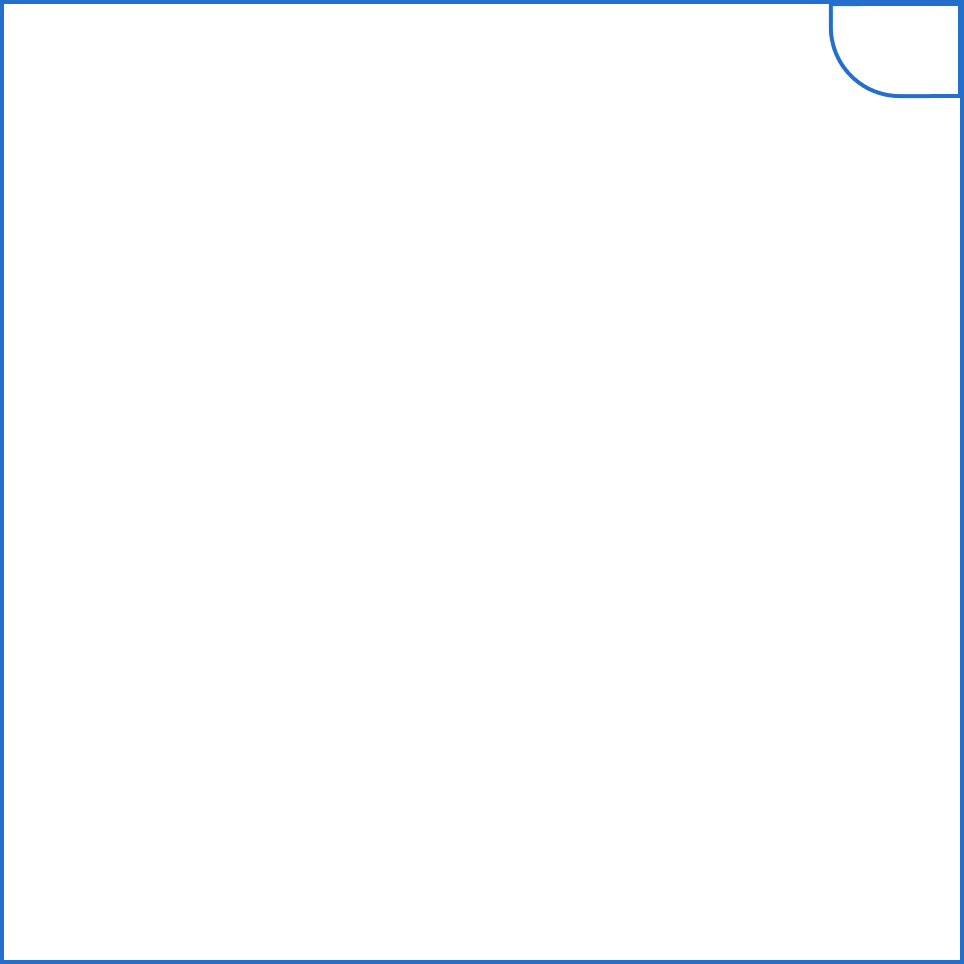
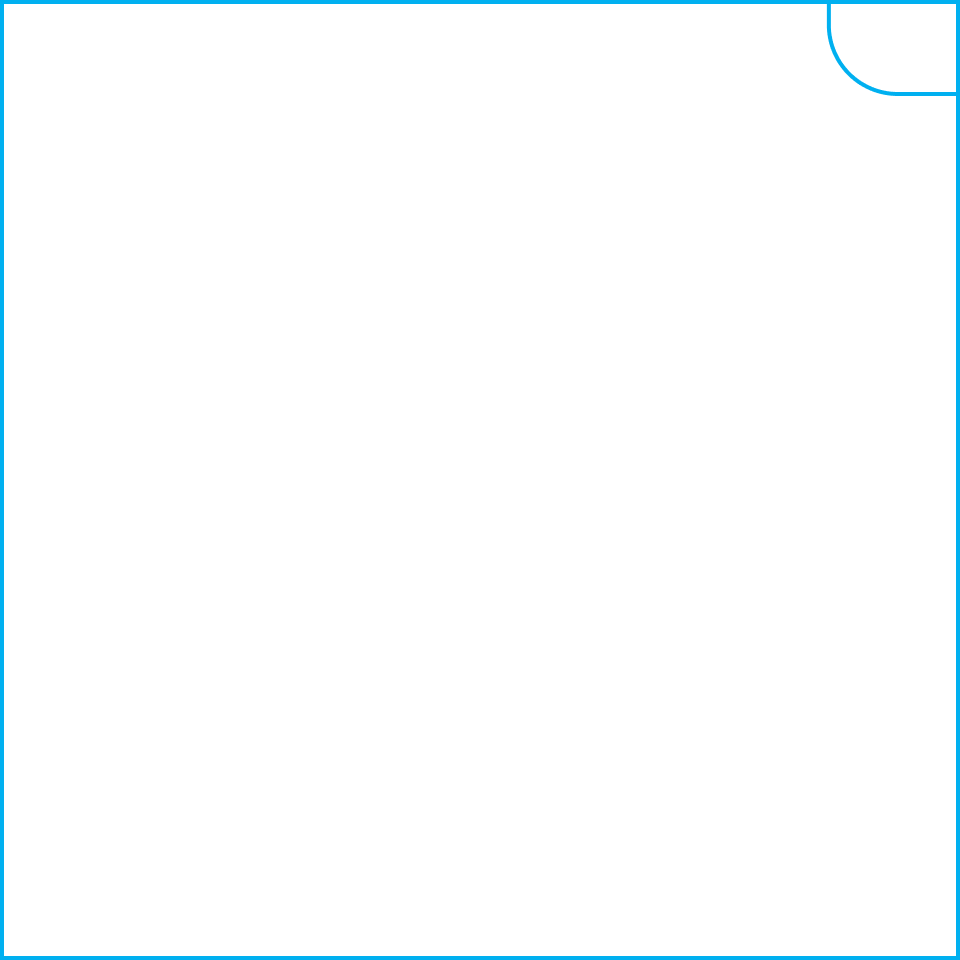
add middle line, chane edit blur bg, change blue border, change shift key size, fix controller loop bug that checks handle_window_close when not tracking

Changed region(s): [[0.0, 0.0, 1.0, 1.0], [0.875, 0.0625, 0.9062, 0.0938]]

diff --git a/confir/src/App.js b/confir/src/App.js
@@ -509,18 +509,19 @@ function App() {
 
   const leftSaveRefs = useRef({}); // Object to store refs by group for left side
   const rightSaveRefs = useRef({}); // Object to store refs by group for right side
-  const clearFlag = useRef(0)
+  const clearFlagl = useRef(0)
+  const clearFlagr = useRef(0)
   const setLeftTmp = (template) => { 
     if(!leftImageMetadata) {
       setLeftImageMetadata(template)
-      clearFlag.current = 1
+      clearFlagl.current = 1
     }
     else Object.values(leftSaveRefs.current).forEach(ref => ref?.setTmp?.(template));
   }
   const setRightTmp = (template) => {
     if(!rightImageMetadata) {
       setRightImageMetadata(template)
-      clearFlag.current = 1
+      clearFlagr.current = 1
     }
     else Object.values(rightSaveRefs.current).forEach(ref => ref?.setTmp?.(template));
   }
@@ -589,7 +590,8 @@ function App() {
       Object.values(rightSaveRefs.current).forEach(ref => ref?.updateSavedMetadata?.());
       if (leftImage!==getInstruction(stage,'AP')) setLeftCheckMark(1)
       if (rightImage!==getInstruction(stage,'OB')) setRightCheckMark(1)
-      clearFlag.current = 0
+      clearFlagl.current = 0
+      clearFlagr.current = 0
       setEditing(false);
     } catch (error) {
       console.error('Error saving landmarks:', error);
@@ -610,8 +612,10 @@ function App() {
       });
       Object.values(leftSaveRefs.current).forEach(ref => ref?.resetToLastSaved?.());
       Object.values(rightSaveRefs.current).forEach(ref => ref?.resetToLastSaved?.());
-      if(clearFlag.current){
+      if(clearFlagl.current){
         setLeftImageMetadata(null)
+      }
+      if(clearFlagr.current){
         setRightImageMetadata(null)
       }
       setEditing(false);

diff --git a/confir/src/L3.js b/confir/src/L3.js
@@ -70,7 +70,7 @@ function L3({
           style={{ 
             width: '100%', 
             height: 'auto', 
-            ...(leftImage !== getInstruction(stage, 'OB') ? getFilterStyle(brightness[1], contrast[1]) : {})
+            ...((rightImage !== getInstruction(stage, 'OB')) ? getFilterStyle(brightness[1], contrast[1]) : {})
           }}
         />
         {activeRight && !editing && (
@@ -90,6 +90,7 @@ function L3({
         ))}
         </div>
       </div>
+      <img src={require('./L5/PartingLine.png')} style={{position:'absolute', left: '958px', top: '0px'}}/>
 
     </div>
   );

diff --git a/confir/src/KB.js b/confir/src/KB.js
@@ -295,6 +295,10 @@ function KB({
             {
               class: "hg-space",
               buttons: "{space}"
+            },
+            {
+              class: "hg-shift",
+              buttons: "{shift}"
             }
           ]}
           onKeyPress={handleKeyboardButtonPress}

diff --git a/confir/src/App.css b/confir/src/App.css
@@ -140,7 +140,11 @@ body{
   color: white;
   width: 50% !important;
 }
-
+.myTheme .hg-button.hg-shift {
+  background: rgb(0, 0, 0, 0.7);
+  color: white;
+  width: 145.5px !important;
+}
 .myTheme {
   width: 80%;
   background-color: #323232 !important;

diff --git a/controller.py b/controller.py
@@ -285,7 +285,7 @@ class Controller:
             
             if newscn == self.scn or newscn[-3:] == 'end':
                 continue
-            self.imu.handle_window_close(self.viewmodel.states['stage'])
+            if self.tracking: self.imu.handle_window_close(self.viewmodel.states['stage'])
             dataforsave, dataforvm, image = self.model.exec(newscn, frame, self.imu.tilt_angle, self.imu.rotation_angle)
             print(frame,image,dataforvm,newscn)
             self.scn = newscn[:-3] + 'end'
